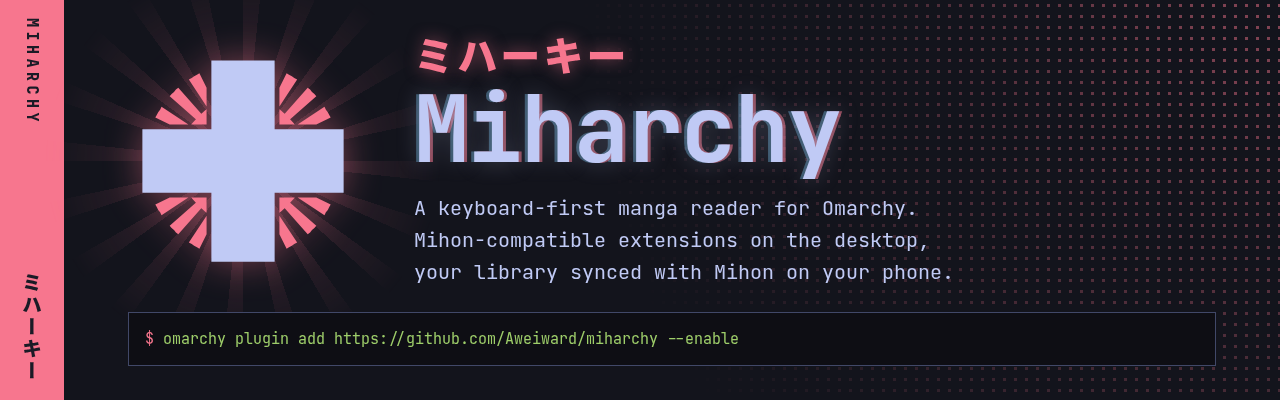
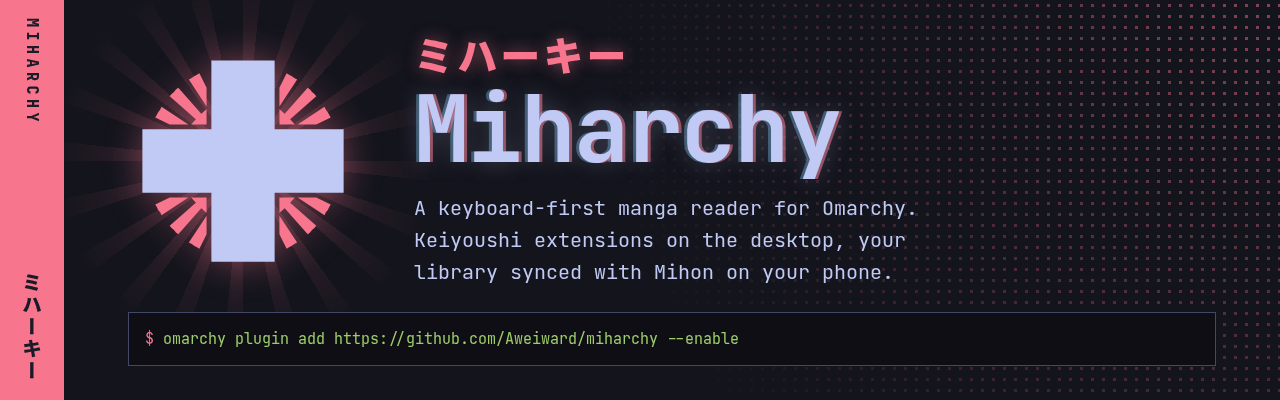
Say Keiyoushi extensions, not Mihon-compatible extensions

Changed region(s): [[0.3125, 0.66, 0.75, 0.72], [0.3125, 0.57, 0.7188, 0.63]]

diff --git a/site/index.html b/site/index.html
@@ -4,7 +4,7 @@
 <meta charset="utf-8">
 <meta name="viewport" content="width=device-width, initial-scale=1">
 <title>Miharchy</title>
-<meta name="description" content="A keyboard-first manga reader for Omarchy. Mihon-compatible extensions through Suwayomi-Server, synced with Mihon on your phone.">
+<meta name="description" content="A keyboard-first manga reader for Omarchy. Keiyoushi extensions on the desktop, your library synced with Mihon on your phone.">
 <meta name="theme-color" content="#1a1b26">
 <meta property="og:title" content="Miharchy">
 <meta property="og:description" content="A keyboard-first manga reader for Omarchy that syncs with Mihon.">
@@ -357,7 +357,7 @@ footer img { width: 32px; height: 32px; display: inline-block; vertical-align: m
       <div class="title">
         <p class="kata" lang="ja" aria-hidden="true">ミハーキー</p>
         <h1>Miharchy</h1>
-        <p class="pitch">A keyboard-first manga reader for Omarchy. Mihon-compatible extensions on the desktop, your library synced with Mihon on your phone.</p>
+        <p class="pitch">A keyboard-first manga reader for Omarchy. Keiyoushi extensions on the desktop, your library synced with Mihon on your phone.</p>
       </div>
       <div class="install">
         <code id="cmd">omarchy plugin add https://github.com/Aweiward/miharchy --enable</code>
@@ -365,7 +365,7 @@ footer img { width: 32px; height: 32px; display: inline-block; vertical-align: m
       </div>
       <ul class="tags">
         <li>Omarchy plugin</li>
-        <li>Mihon-compatible extensions</li>
+        <li>Keiyoushi extensions</li>
         <li>Syncs with Mihon</li>
         <li>MIT</li>
       </ul>
@@ -488,7 +488,7 @@ footer img { width: 32px; height: 32px; display: inline-block; vertical-align: m
     <div class="feat"><span class="ico">KEYS</span><h3>Keyboard first</h3><p>vim keys everywhere, and <kbd>:</kbd> opens a palette of every command.</p></div>
     <div class="feat"><span class="ico">MOUSE</span><h3>Mouse too</h3><p>Click, double-click, scroll and tap zones in the reader. Hints are buttons.</p></div>
     <div class="feat"><span class="ico">READ</span><h3>Five reading modes</h3><p>Paged both ways, vertical, webtoon and continuous. Two-page spreads, page fit, split wide pages.</p></div>
-    <div class="feat"><span class="ico">SRC</span><h3>Mihon-compatible extensions</h3><p>Install from extension repos, search one source or all of them, set source filters and settings.</p></div>
+    <div class="feat"><span class="ico">SRC</span><h3>Keiyoushi extensions</h3><p>Install from extension repos, search one source or all of them, set source filters and settings.</p></div>
     <div class="feat"><span class="ico">TRACK</span><h3>Trackers</h3><p>Log in to the trackers Suwayomi offers. Progress goes out when you finish a chapter.</p></div>
     <div class="feat"><span class="ico">LOCAL</span><h3>Local manga</h3><p>Point it at a folder of chapters or CBZ files and read them like any source.</p></div>
     <div class="feat"><span class="ico">DL</span><h3>Downloads</h3><p>A queue you can reorder, CBZ, auto-download of new chapters, delete after reading.</p></div>

diff --git a/core/server/src/main/kotlin/miharchy/core/Extensions.kt b/core/server/src/main/kotlin/miharchy/core/Extensions.kt
@@ -64,7 +64,7 @@ fun indexUrlOf(input: String): String {
 /** Reads a repo's index.json. Anything in it is untrusted: it names files, addresses and code that runs here. */
 fun parseIndex(indexUrl: String, text: String): Pair<Store, List<Offer>> {
     val root = runCatching { Json.parseToJsonElement(text).jsonObject }.getOrNull()
-        ?: throw ApiError(Kind.invalid, "$indexUrl is not a Mihon extension repo index.")
+        ?: throw ApiError(Kind.invalid, "$indexUrl is not an extension repo index in Keiyoushi's format.")
     fun JsonObject.s(k: String) = (this[k] as? JsonPrimitive)?.takeIf { it.isString }?.content
     val key = root.s("signingKey")?.lowercase()?.takeIf { KEY.matches(it) }
         ?: throw ApiError(Kind.invalid, "$indexUrl lists no signing key, so its extensions cannot be checked.")

diff --git a/core/host/README.md b/core/host/README.md
@@ -1,6 +1,6 @@
 # Extension host
 
-The extension host runs Mihon extensions from their signed `.jar` builds: Android stand-in classes, the extension API, and a stdio JSON protocol (`src/main/kotlin/yomi/host/Main.kt`). ADR 0009 explains why Miharchy has it.
+The extension host runs Keiyoushi extensions from their signed `.jar` builds: Android stand-in classes, the extension API, and a stdio JSON protocol (`src/main/kotlin/yomi/host/Main.kt`). ADR 0009 explains why Miharchy has it.
 
 The code in this folder comes from [NanoYomi](https://github.com/SELECT-stupidity-FROM-discord/NanoYomi) `host/` at commit `4e9ac9b` (2026-11-20), under the Mozilla Public License 2.0 (`LICENSE-MPL-2.0.txt`). Miharchy's changes to those files stay under MPL-2.0 too. Miharchy added this README and the tests `CryptoTest` and `DataDirTest`. The Gradle wrapper, `settings.gradle.kts` and the dependency checksums now live in `core/`, for every module. `git log -- core/host` lists every change; the first commit is the unchanged copy.
 

diff --git a/README.md b/README.md
@@ -1,4 +1,4 @@
-<a href="https://aweiward.github.io/miharchy/"><img src="site/banner.png" alt="Miharchy: a keyboard-first manga reader for Omarchy. Mihon-compatible extensions on the desktop, your library synced with Mihon on your phone." width="1280"></a>
+<a href="https://aweiward.github.io/miharchy/"><img src="site/banner.png" alt="Miharchy: a keyboard-first manga reader for Omarchy. Keiyoushi extensions on the desktop, your library synced with Mihon on your phone." width="1280"></a>
 
 # Miharchy
 

diff --git a/AGENTS.md b/AGENTS.md
@@ -1,6 +1,6 @@
 # Miharchy
 
-A manga reader for Omarchy (Arch + Hyprland). It reads Mihon-compatible extensions through its own server, miharchy-core, and syncs with stock Mihon on a phone through backup files.
+A manga reader for Omarchy (Arch + Hyprland). It reads Keiyoushi extensions through its own server, miharchy-core, and syncs with stock Mihon on a phone through backup files.
 
 ## Read first
 

diff --git a/GLOSSARY.md b/GLOSSARY.md
@@ -1,6 +1,6 @@
 # Miharchy
 
-Miharchy is a manga reader for Omarchy. It reads Mihon-compatible extensions and shares a library with Mihon on a phone.
+Miharchy is a manga reader for Omarchy. It reads Keiyoushi extensions and shares a library with Mihon on a phone.
 
 ## Language
 
